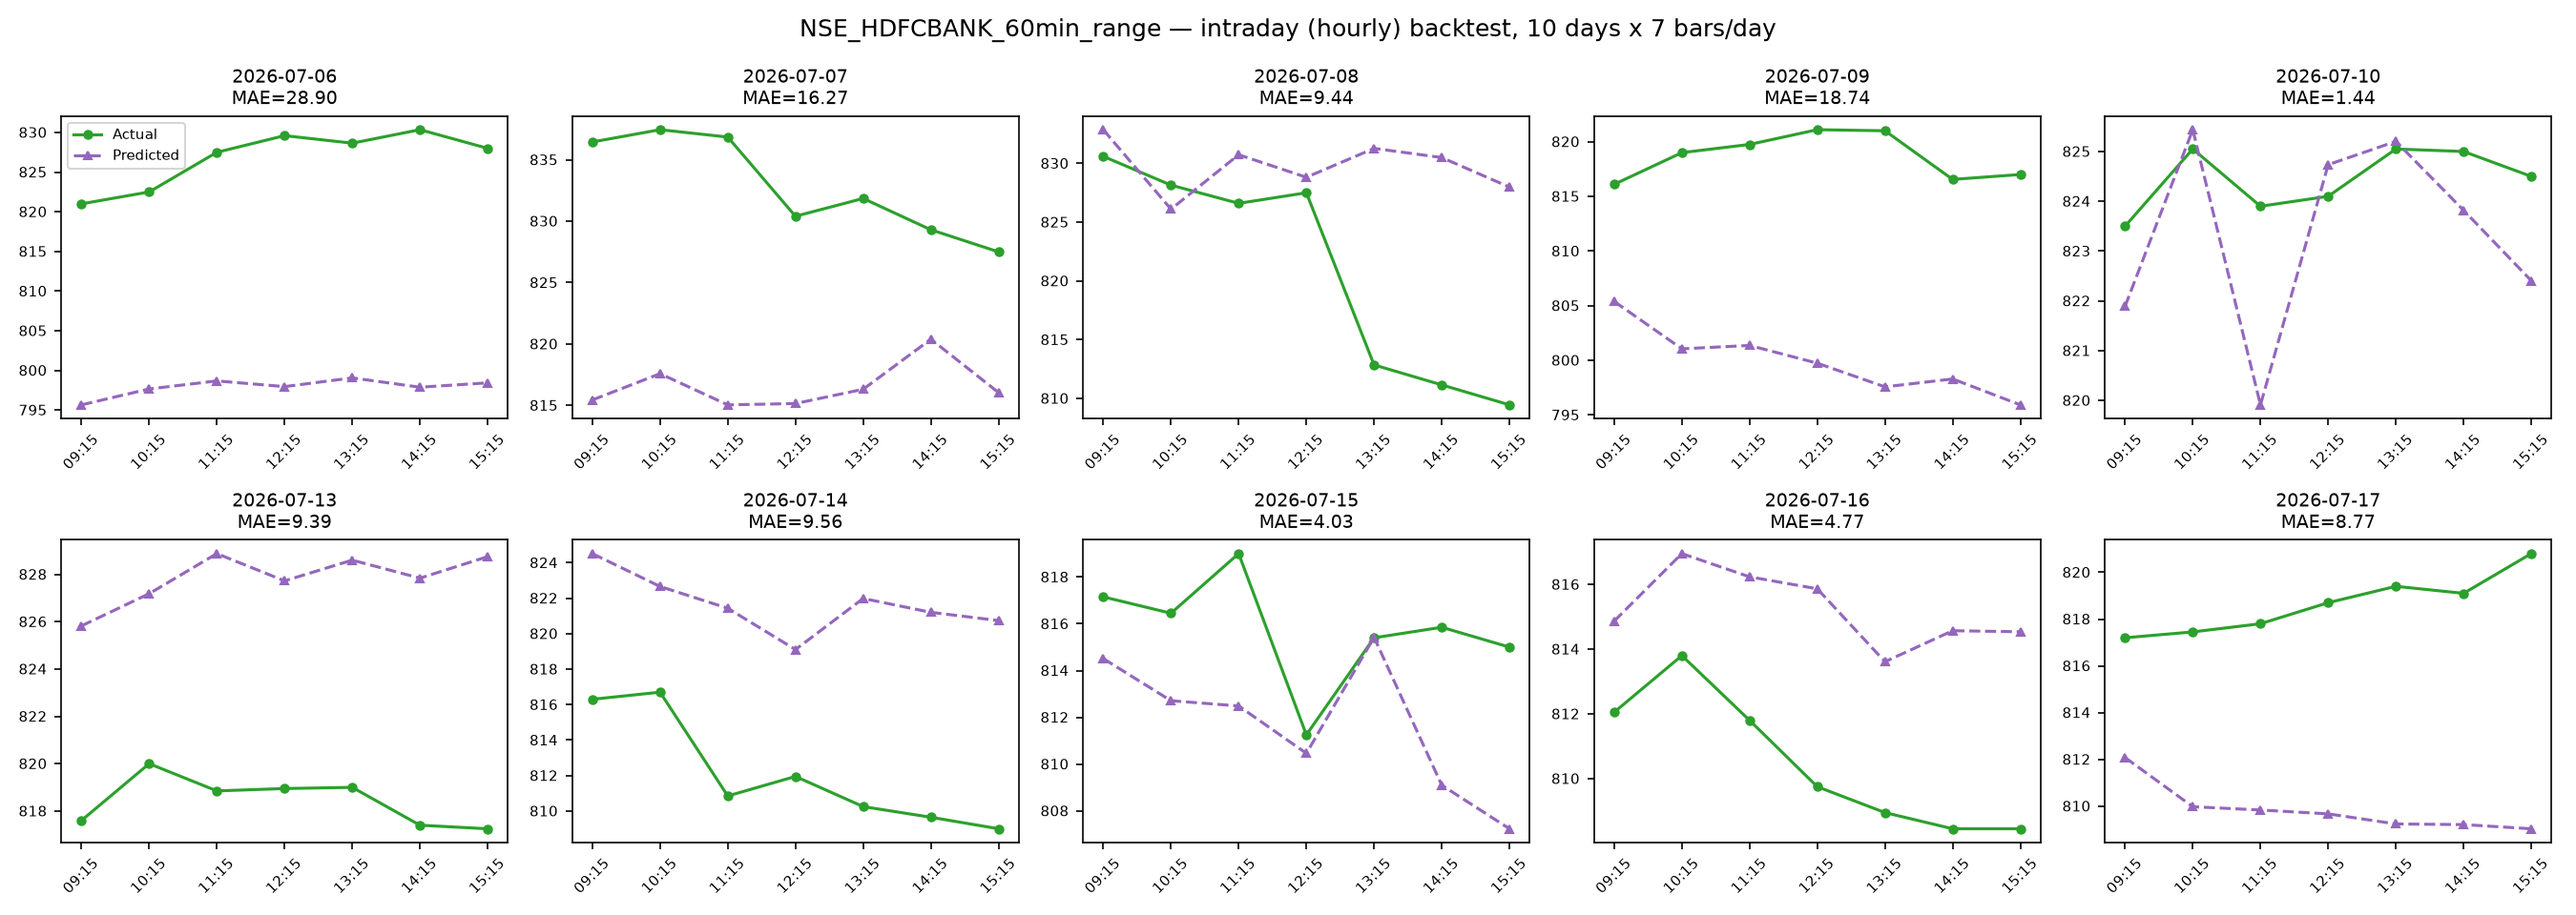
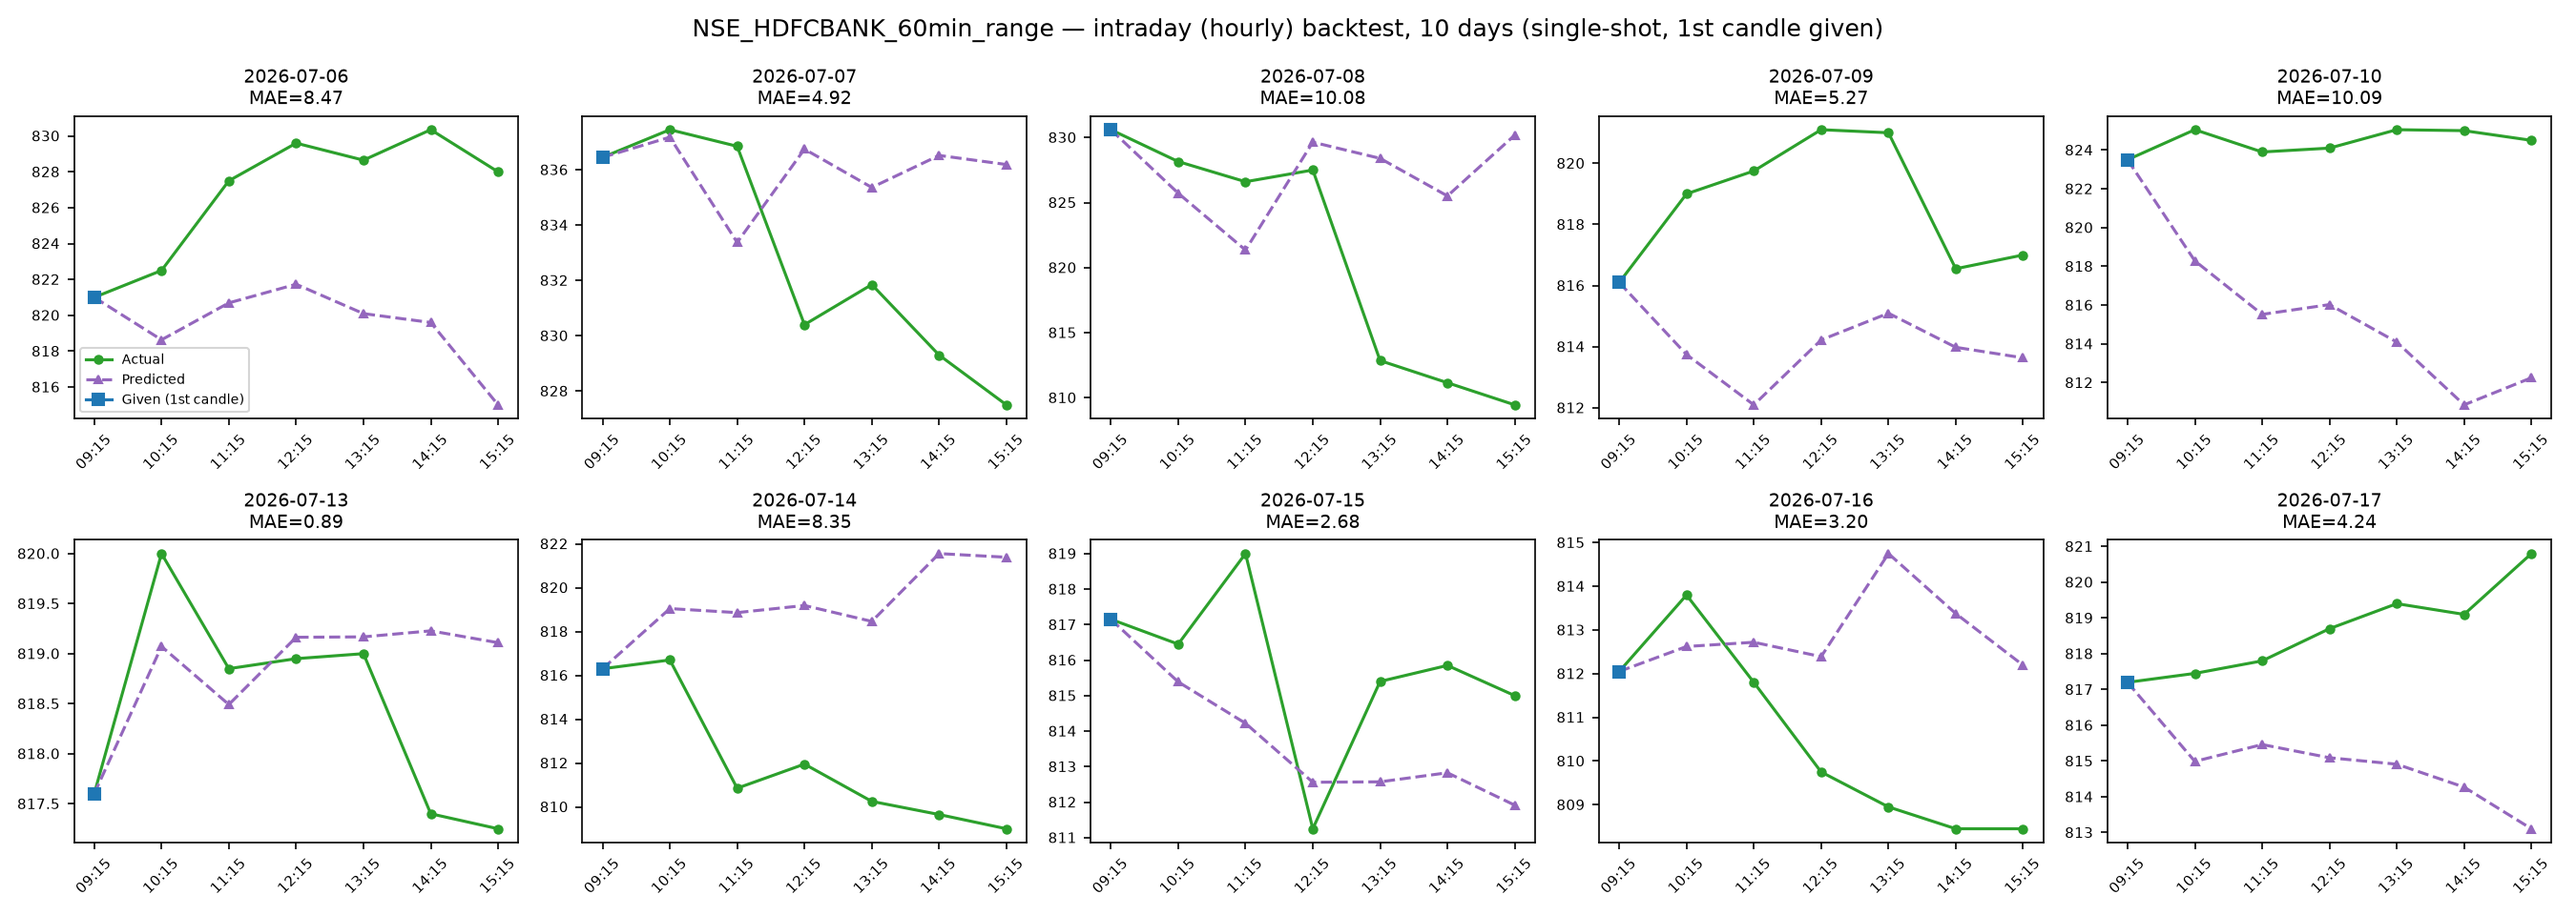
Feed each day's real first candle as given context, don't predict/score it
The opening 09:15 candle reflects the overnight/weekend gap, which no
amount of prior-day history can anticipate -- scoring it only measured
something structurally unknowable and dominated the error (e.g. the
2026-07-06 gap-up day was previously MAE 28.90 almost entirely from a
missed open). Both backtest_day and backtest_day_walk_forward now
feed the target day's real first bar in as known context and only
generate/score the remaining bars.

Re-ran the same 10-day pre-earnings backtest: single-shot MAE
11.13 -> 5.82, walk-forward MAE 3.32 -> 3.02. The 2026-07-06 gap day
improves from 28.90 -> 8.47 (single-shot) and 6.31 -> 5.31
(walk-forward). Chart now marks the given opening candle distinctly;
regenerated the single-day before/after comparison to match.

diff --git a/nse/intraday_backtest.py b/nse/intraday_backtest.py
@@ -1,10 +1,16 @@
-"""Backtest Kronos on intraday (60-minute) candles: predict every hourly candle of
-a trading day from the preceding N trading days of hourly history, walk-forward
-across several trading days.
+"""Backtest Kronos on intraday (60-minute) candles: predict a trading day's hourly
+candles from the preceding N trading days of hourly history, walk-forward across
+several trading days.
+
+Each day's own real *first* candle is always fed in as known context and never
+predicted -- the opening bar reflects the overnight/weekend gap, which no amount
+of prior-day history can anticipate, so scoring it would only measure something
+structurally unknowable. Only the remaining bars (10:15 onward for a 09:15-15:15
+session) are generated and scored.
 
 Unlike nse/forecast.py (which always predicts a single end-of-day close), this
-predicts the *whole* next day's hourly path at once -- pred_len equals however
-many intraday bars that day actually has.
+predicts a whole day's remaining hourly path at once -- pred_len equals however
+many bars are left after the first one.
 
 Example (5 trading days of context, predicting each of the last 10 trading days
 before HDFC Bank's Q1 FY27 results, so the earnings shock doesn't contaminate
@@ -39,16 +45,25 @@ def trading_dates(df: pd.DataFrame):
 
 
 def backtest_day(df: pd.DataFrame, target_date, lookback_days: int, predictor, T, top_p, sample_count):
+    """Predict a day's hourly bars from prior_days' context PLUS that day's own
+    real first candle (fed in as known context, never predicted -- the opening
+    bar reflects the overnight/weekend gap, which no amount of prior-day history
+    can anticipate). Only the remaining bars are generated and scored.
+    """
     all_dates = trading_dates(df)
     prior_dates = [d for d in all_dates if d < target_date][-lookback_days:]
     if len(prior_dates) < lookback_days:
         return None
-    context = df[df["timestamps"].dt.normalize().isin(prior_dates)]
+    prior_context = df[df["timestamps"].dt.normalize().isin(prior_dates)]
     target_bars = df[df["timestamps"].dt.normalize() == target_date].reset_index(drop=True)
-    if target_bars.empty:
+    if len(target_bars) < 2:
         return None
-    pred_len = len(target_bars)
-    y_timestamp = target_bars["timestamps"]
+
+    first_bar = target_bars.iloc[:1]
+    remaining_bars = target_bars.iloc[1:]
+    context = pd.concat([prior_context, first_bar], ignore_index=True)
+    pred_len = len(remaining_bars)
+    y_timestamp = remaining_bars["timestamps"]
     pred = predictor.predict(
         df=context[PRICE_COLS],
         x_timestamp=context["timestamps"],
@@ -60,15 +75,15 @@ def backtest_day(df: pd.DataFrame, target_date, lookback_days: int, predictor, T
         verbose=False,
     )
     pred.index = y_timestamp.values
-    actual = target_bars.set_index("timestamps")[PRICE_COLS]
+    actual = remaining_bars.set_index("timestamps")[PRICE_COLS]
     return context, actual, pred
 
 
 def backtest_day_walk_forward(df: pd.DataFrame, target_date, lookback_days: int, predictor, T, top_p, sample_count):
-    """Like backtest_day, but predicts the target day one bar at a time, feeding
+    """Like backtest_day, but predicts the remaining bars one at a time, feeding
     each bar's *real* outcome back in as context before predicting the next bar
-    -- instead of generating the whole day in one shot from only the prior days'
-    context.
+    -- instead of generating them all in one shot. The day's real first candle
+    is fed in as context and never predicted, same as backtest_day.
     """
     all_dates = trading_dates(df)
     prior_dates = [d for d in all_dates if d < target_date][-lookback_days:]
@@ -76,11 +91,11 @@ def backtest_day_walk_forward(df: pd.DataFrame, target_date, lookback_days: int,
         return None
     prior_context = df[df["timestamps"].dt.normalize().isin(prior_dates)]
     target_bars = df[df["timestamps"].dt.normalize() == target_date].reset_index(drop=True)
-    if target_bars.empty:
+    if len(target_bars) < 2:
         return None
 
     preds = []
-    for i in range(len(target_bars)):
+    for i in range(1, len(target_bars)):
         known_today = target_bars.iloc[:i]
         context = pd.concat([prior_context, known_today], ignore_index=True)
         y_timestamp = pd.Series([target_bars.iloc[i]["timestamps"]])
@@ -98,8 +113,9 @@ def backtest_day_walk_forward(df: pd.DataFrame, target_date, lookback_days: int,
         preds.append(pred)
 
     pred_df = pd.concat(preds)
-    actual = target_bars.set_index("timestamps")[PRICE_COLS]
-    return prior_context, actual, pred_df
+    actual = target_bars.iloc[1:].set_index("timestamps")[PRICE_COLS]
+    context = pd.concat([prior_context, target_bars.iloc[:1]], ignore_index=True)
+    return context, actual, pred_df
 
 
 SESSION_HOURS = [9, 10, 11, 12, 13, 14, 15]  # bar timestamps land on HH:15
@@ -198,21 +214,25 @@ def plot_days(results, symbol, chart_output, mode_label="single-shot"):
     rows = (n + cols - 1) // cols
     fig, axes = plt.subplots(rows, cols, figsize=(3.6 * cols, 3.2 * rows), squeeze=False)
 
-    for i, (target_date, actual, pred, metrics) in enumerate(results):
+    for i, (target_date, context, actual, pred, metrics) in enumerate(results):
         ax = axes[i // cols][i % cols]
-        hours = [t.strftime("%H:%M") for t in actual.index]
-        ax.plot(hours, actual["close"].values, color="#2ca02c", marker="o", markersize=4, label="Actual")
-        ax.plot(hours, pred["close"].values, color="#9467bd", marker="^", markersize=4, linestyle="--", label="Predicted")
+        open_bar = context.iloc[-1]
+        hours = [open_bar["timestamps"].strftime("%H:%M")] + [t.strftime("%H:%M") for t in actual.index]
+        actual_y = [open_bar["close"]] + list(actual["close"].values)
+        pred_y = [open_bar["close"]] + list(pred["close"].values)
+        ax.plot(hours, actual_y, color="#2ca02c", marker="o", markersize=4, label="Actual")
+        ax.plot(hours, pred_y, color="#9467bd", marker="^", markersize=4, linestyle="--", label="Predicted")
+        ax.plot(hours[0], actual_y[0], color="#1f77b4", marker="s", markersize=6, zorder=5, label="Given (1st candle)")
         ax.set_title(f"{target_date.date()}\nMAE={metrics['MAE']:.2f}", fontsize=9)
         ax.tick_params(axis="x", labelrotation=45, labelsize=7)
         ax.tick_params(axis="y", labelsize=7)
         if i == 0:
-            ax.legend(fontsize=7)
+            ax.legend(fontsize=6.5)
 
     for j in range(n, rows * cols):
         axes[j // cols][j % cols].axis("off")
 
-    fig.suptitle(f"{symbol} — intraday (hourly) backtest, {n} days x {len(results[0][1])} bars/day ({mode_label})", fontsize=12)
+    fig.suptitle(f"{symbol} — intraday (hourly) backtest, {n} days ({mode_label}, 1st candle given)", fontsize=12)
     fig.tight_layout()
     fig.savefig(chart_output, dpi=150)
     plt.close(fig)
@@ -293,9 +313,9 @@ def main():
             continue
         context, actual, pred = outcome
         metrics = compute_metrics(actual, pred, column="close")
-        results.append((target_date, actual, pred, metrics))
+        results.append((target_date, context, actual, pred, metrics))
         print(
-            f"  {target_date.date()}: {len(actual)} bars, "
+            f"  {target_date.date()}: {len(actual)} bars (+1 given), "
             f"MAE={metrics['MAE']:.2f} RMSE={metrics['RMSE']:.2f} MAPE={metrics['MAPE_pct']:.2f}%"
         )
         comparison = pd.DataFrame({

diff --git a/README.md b/README.md
@@ -141,11 +141,10 @@ representative of current price level and volatility.
 ## Intraday backtesting
 
 `nse/intraday_backtest.py` is a separate mode: instead of predicting a single
-end-of-day close, it predicts every hourly candle of a trading day at once
-(`pred_len` = however many bars that day has) from the `--lookback-days`
-trading days immediately before it, walked forward across `--num-days`
-trading days. Use `--before` to keep the whole test clear of a known event
-like an earnings release:
+end-of-day close, it predicts a trading day's hourly candles from the
+`--lookback-days` trading days immediately before it, walked forward across
+`--num-days` trading days. Use `--before` to keep the whole test clear of a
+known event like an earnings release:
 
 ```shell
 python -m nse.intraday_backtest --csv data/NSE_HDFCBANK_60min_range.csv \
@@ -154,24 +153,30 @@ python -m nse.intraday_backtest --csv data/NSE_HDFCBANK_60min_range.csv \
     --chart-output data/NSE_HDFCBANK_intraday_backtest.png
 ```
 
-Backtesting the 10 trading days from 2026-07-06 to 2026-07-17 (all before the
-Q1 FY27 results, each predicted from the 5 trading days before it) gives
-**MAE 11.13, RMSE 14.03, MAPE 1.35%** across 70 hourly bars in this default
-"single-shot" mode — see `data/NSE_HDFCBANK_intraday_backtest.png` for the
-per-day small multiples. Most days track closely (2026-07-10 MAE 1.44,
-2026-07-15 MAE 4.03), with the worst day (2026-07-06, MAE 28.90) being a
-gap-up Monday: HDFCBANK rallied from Friday's ~₹801 close to open around
-₹805 and race to ₹821-830 within the first hour, something the 5 prior
-(calm, ₹795-805-range) trading days gave no hint of.
+Each day's own real **first candle (09:15) is always fed in as known context
+and never predicted or scored** — it reflects the overnight/weekend gap,
+which no amount of prior-day history can anticipate, so scoring it would
+only measure something structurally unknowable. Only the remaining bars
+(10:15 → 15:15, 6 of them) are generated.
 
-Single-shot mode generates all 7 hours of a day from one `predict()` call —
-Kronos's own autoregressive generation chains hour 1's *guess* into hour 2,
-hour 3, etc., but it never sees that day's *real* bars as they land, so once
-the first guess misses a surprise like a gap-up, every later hour just keeps
-extrapolating the same wrong guess instead of correcting to reality.
-`--walk-forward` fixes exactly that: it predicts one bar at a time, feeding
-each bar's real outcome back in as context before predicting the next one
-(like `forecast.py`'s daily `--backtest`, but within the day):
+Backtesting the 10 trading days from 2026-07-06 to 2026-07-17 (all before the
+Q1 FY27 results, each predicted from the 5 trading days before it, plus that
+day's own real open) gives **MAE 5.82, RMSE 7.28, MAPE 0.71%** across 60
+hourly bars in this default "single-shot" mode — see
+`data/NSE_HDFCBANK_intraday_backtest.png` for the per-day small multiples
+(blue square marks the given first candle). The worst day is still
+2026-07-06 (MAE 8.47), a gap-up Monday: HDFCBANK opened around ₹821 (already
+given) and kept climbing to ₹828-830, a continuation the 5 calm prior days
+gave no hint of.
+
+Single-shot mode generates all 6 remaining hours from one `predict()` call —
+Kronos's own autoregressive generation chains hour 2's *guess* into hour 3,
+hour 4, etc., but it never sees that day's *real* bars as they land, so once
+a guess drifts off, later hours just keep extrapolating instead of
+correcting to reality. `--walk-forward` fixes exactly that: it predicts one
+bar at a time, feeding each bar's real outcome back in as context before
+predicting the next one (like `forecast.py`'s daily `--backtest`, but within
+the day, and still starting from that day's given real open):
 
 ```shell
 python -m nse.intraday_backtest --csv data/NSE_HDFCBANK_60min_range.csv \
@@ -180,15 +185,15 @@ python -m nse.intraday_backtest --csv data/NSE_HDFCBANK_60min_range.csv \
     --chart-output data/NSE_HDFCBANK_intraday_backtest_wf.png
 ```
 
-This drops overall MAE from 11.13 to **3.32** (RMSE 4.93, MAPE 0.40%) across
-the same 70 bars. The gap-up day improves from MAE 28.90 to 6.31 — see
-`data/NSE_HDFCBANK_intraday_0706_before_after.png`: the 09:15 bar still
-misses (nothing before market open could know about the gap), but the
-moment the real 09:15 close is fed back in, the 10:15 prediction jumps from
-~₹798 to ~₹815 and tracks closely for the rest of the day. The lesson mirrors
-the daily case: Kronos can't predict a surprise before it happens, but it
-adapts to new real information almost immediately once it's given that
-information, rather than compounding its own earlier miss.
+This drops overall MAE from 5.82 to **3.02** (RMSE 4.14, MAPE 0.37%) across
+the same 60 bars, and the gap-up day from 8.47 to 5.31 — see
+`data/NSE_HDFCBANK_intraday_0706_before_after.png`: single-shot (red) stays
+too low most of the day, while walk-forward (purple) climbs back toward
+actual as each real hour gets fed back in, closing the gap almost entirely
+by 15:15. The lesson mirrors the daily case: Kronos can't predict a surprise
+before it happens, but once given the day's actual starting point, it
+adapts to new real information quickly rather than compounding its own
+earlier miss.
 
 ### Live intraday use
 
